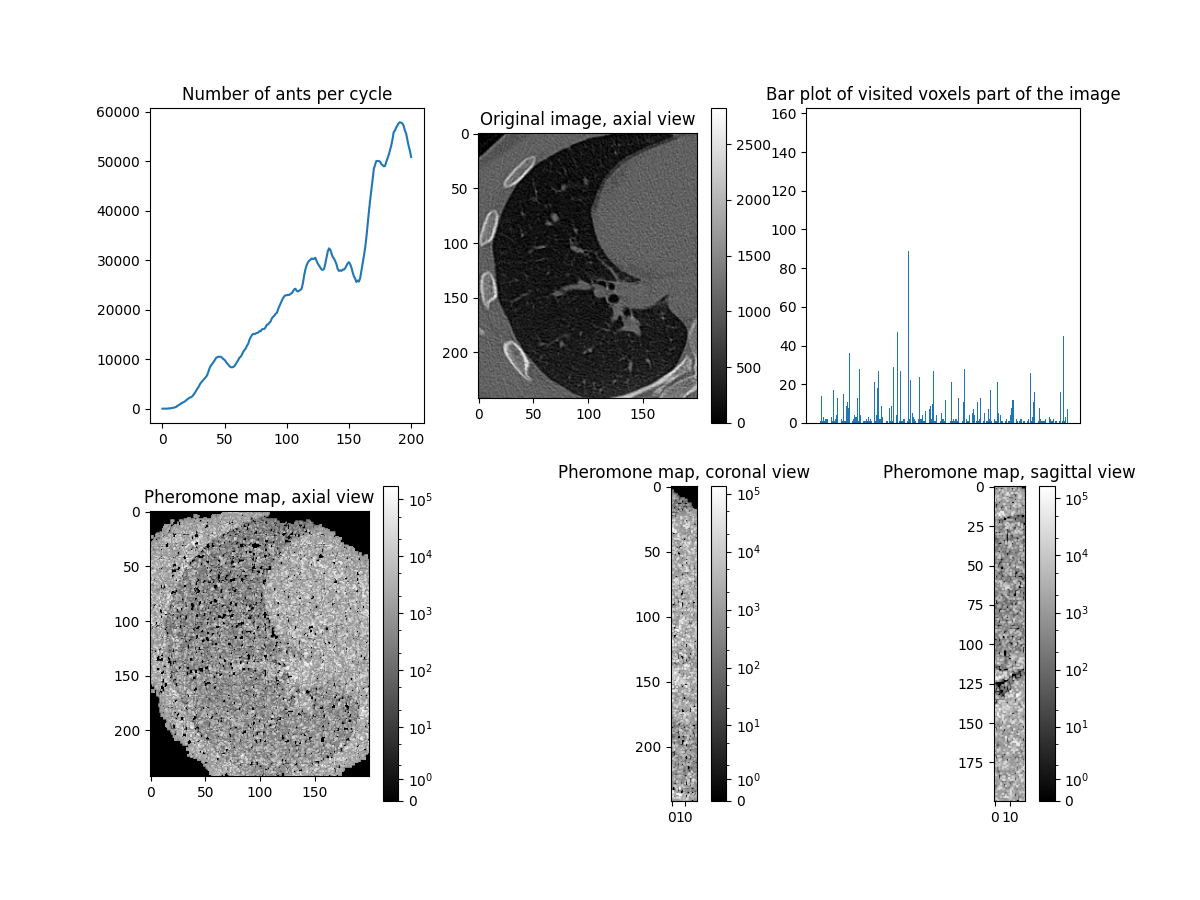
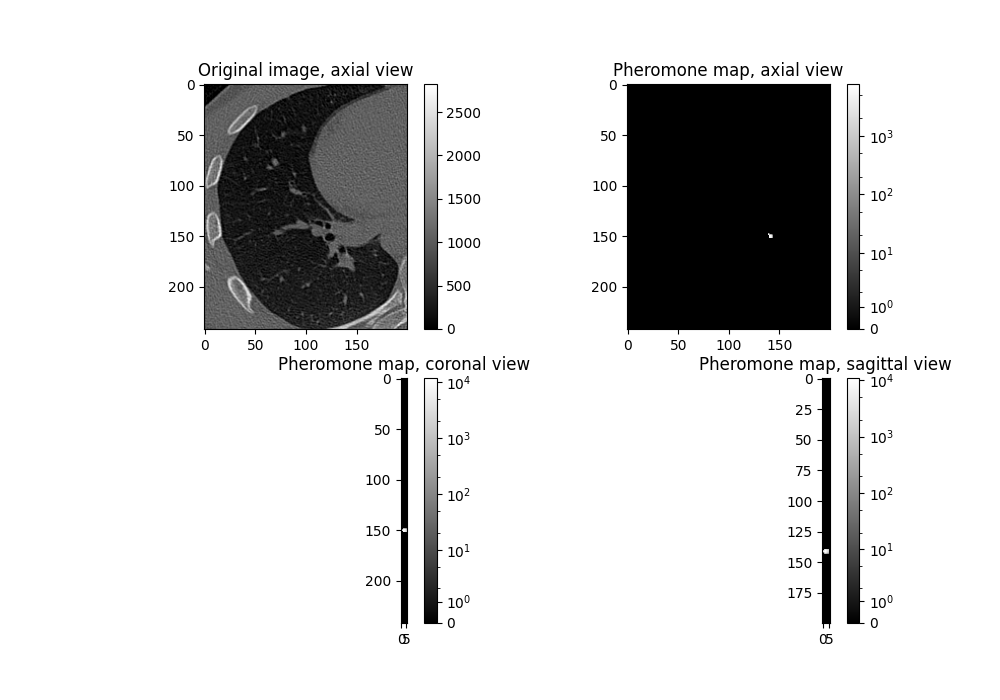
updated statistics and plot_display in main

diff --git a/src/main.py b/src/main.py
@@ -126,27 +126,19 @@ def find_next_voxel(ant_worker):
 
 
 def plot_display(
-    ants_number,
     a_ratio,
     image_matrix,
-    visited_voxs_dict,
     pheromone_matrix,
     anthill_coordinates,
 ):
-    """Displays the plots of the number of ants per cycle,
-    the original image matrix, the bar plot of the visited voxels
-    and the pheromone map built by the ants.
+    """Displays the axial view of the image matrix, the axial, coronal
+    and sagittal views of the pheromone map; the z, x and y slices of
+    the different views correspond to those ones of the anthill location.
 
     Args
     ----
-    ants_number : list[int]
-        The list of the number of ants per cycle.
-
     image_matrix : ndarray
         The matrix of the image to be segmented.
-
-    visited_voxs_dict : dict
-        The dictionary containing all the visited voxels.
 
     pheromone_matrix : ndarray
         The matrix of the pheromone map built by the ants.
@@ -156,35 +148,29 @@ def plot_display(
         used to display different slices of the pheromone map.
     """
 
-    _, ax = plt.subplots(2, 3, figsize=(12, 9))
+    _, ax = plt.subplots(2, 2, figsize=(10, 7))
     norm = "asinh"
     cmap = "gray"
-    ax[0][0].plot(ants_number)
-    ax[0][0].set_title("Number of ants per cycle")
-    ax[0][1].set_aspect(a_ratio["axial"])
-    plot_1 = ax[0][1].imshow(image_matrix[:, :, anthill_coordinates[2]], cmap="gray")
-    ax[0][2].bar(list(visited_voxs_dict.keys()), visited_voxs_dict.values())
-    ax[0][2].set_title("Bar plot of visited voxels part of the image")
-    ax[0][2].set_xticks([])
-    ax[0][1].set_title("Original image, axial view")
-    plot_2 = ax[1][0].imshow(
+    ax[0][0].set_aspect(a_ratio["axial"])
+    plot_1 = ax[0][0].imshow(image_matrix[:, :, anthill_coordinates[2]], cmap="gray")
+    ax[0][0].set_title("Original image, axial view")
+    plot_2 = ax[0][1].imshow(
         pheromone_matrix[:, :, anthill_coordinates[2], 0], norm=norm, cmap=cmap
     )
-    ax[1][0].set_title("Pheromone map, axial view")
-    plot_3 = ax[1][1].imshow(
+    ax[0][1].set_title("Pheromone map, axial view")
+    plot_3 = ax[1][0].imshow(
         pheromone_matrix[:, anthill_coordinates[1], :, 0], norm=norm, cmap=cmap
     )
-    ax[1][1].set_title("Pheromone map, coronal view")
-    plot_4 = ax[1][2].imshow(
+    ax[1][0].set_title("Pheromone map, coronal view")
+    plot_4 = ax[1][1].imshow(
         pheromone_matrix[anthill_coordinates[0], :, :, 0], norm=norm, cmap=cmap
     )
-    ax[1][2].set_title("Pheromone map, sagittal view")
+    ax[1][1].set_title("Pheromone map, sagittal view")
     for plot, ax in zip(
-        [plot_1, plot_2, plot_3, plot_4], [ax[0][1], ax[1][0], ax[1][1], ax[1][2]]
+        [plot_1, plot_2, plot_3, plot_4], [ax[0][0], ax[0][1], ax[1][0], ax[1][1]]
     ):
         plt.colorbar(plot, ax=ax)
     plt.savefig("../results/CAM_results.png")
-    plt.tight_layout()
 
 
 def pool_initializer(pheromone_matrix, pheromone_matrix_shape):
@@ -206,7 +192,7 @@ def pool_initializer(pheromone_matrix, pheromone_matrix_shape):
     np_x_shape = pheromone_matrix_shape
 
 
-def statistics(image_matrix, pheromone_matrix):
+def statistics(ants_number, image_matrix, pheromone_matrix):
     """Provides statistics about the run such as: the number of
     non-zero image voxels, the number of voxels visited by the ants,
     the visited voxels which are also part of the non-zero image
@@ -214,17 +200,14 @@ def statistics(image_matrix, pheromone_matrix):
 
     Args
     ----
+    ants_number : list[int]
+        The list of the number of ants per cycle.
+
     image_matrix : ndarray
         The image matrix.
 
     pheromone_matrix : ndarray
         The pheromone map.
-
-    Returns
-    -------
-    common_dict : dict
-        The dictionary of the visit voxels and their number of visits
-        which are also non-zero image voxels.
     """
 
     image_voxels = np.transpose(np.array(np.nonzero(image_matrix))).reshape(-1, 3)
@@ -266,7 +249,13 @@ def statistics(image_matrix, pheromone_matrix):
     logging.info(
         f"Of which belonging to the image: {len(common_dict)} ({(100 * len(common_dict) / image_voxels.shape[0]):.1f}%)\n"
     )
-    return common_dict
+    _, ax = plt.subplots(2, 2, figsize=(10, 7))
+    ax[0][0].plot(ants_number)
+    ax[0][0].set_title("Number of ants per cycle")
+    ax[0][1].bar(list(common_dict.keys()), common_dict.values())
+    ax[0][1].set_title("Bar plot of visited voxels part of the image")
+    ax[0][1].set_xticks([])
+    plt.savefig("../results/CAM_statistics.png")
 
 
 def set_image_and_pheromone(file_path):
@@ -407,6 +396,7 @@ if __name__ == "__main__":
                 )
                 if valid_neighbours.shape[0] == 0:
                     continue
+
                 second_neighbours = ant.find_second_neighbours()
                 image_second_neigh = (
                     image[
@@ -427,6 +417,7 @@ if __name__ == "__main__":
                     ),
                     26,
                 )
+
                 for neigh in valid_neighbours[:n_offspring]:
                     ant_colony.append(Ant(image, list(neigh)))
                 pheromone_map[
@@ -443,8 +434,7 @@ if __name__ == "__main__":
     logging.info(
         f"Elapsed time: {(time.perf_counter() - start_time_local) / 60:.3f} min\n"
     )
-    visited_voxels = statistics(image, pheromone_map)
-    plot_display(
-        ant_number, aspect_ratio, image, visited_voxels, pheromone_map, anthill_position
+    statistics(ant_number, image, pheromone_map)
+    plot_display(aspect_ratio, image, pheromone_map, anthill_position
     )
     plt.show()

diff --git a/src/environment_constructor.py b/src/environment_constructor.py
@@ -139,7 +139,7 @@ class ImageData:
             'sagittal': y/z,
             'coronal': x/z
         }
-        CT_array = CT_array[167 : 409, 30 : 230, 267 - 10 : 267 + 10]
+        CT_array = CT_array[167 : 409, 30 : 230, 267 - 3 : 267 + 3]
         # ax = plt.subplot(1, 1, 1)
         # ax.imshow(CT_array[:, :, CT_array.shape[2] // 2], cmap="gray")
         # ax.set_aspect(aspect_ratio['axial'])
